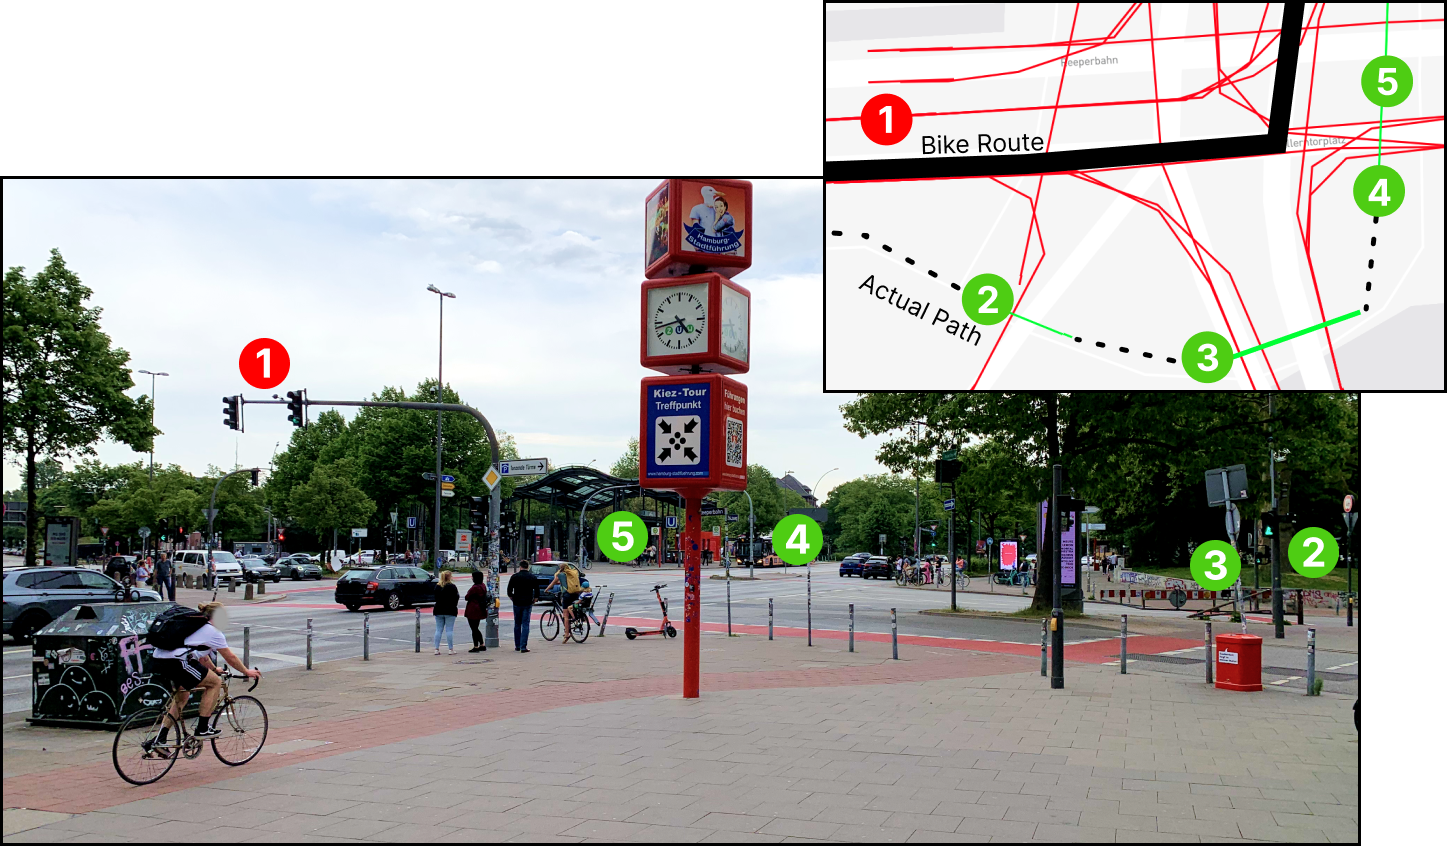
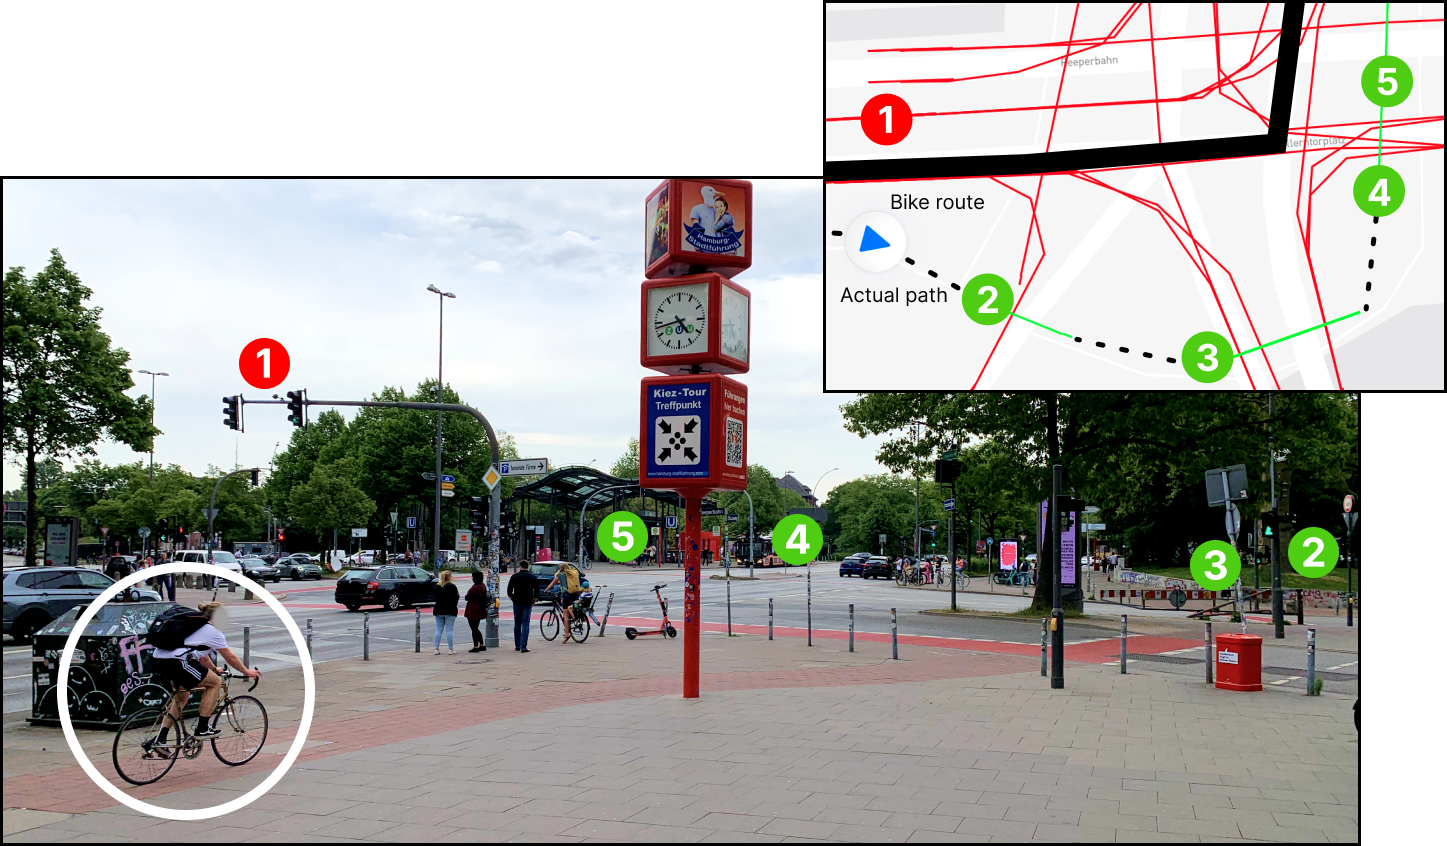
Update on Overleaf.

diff --git a/sections/prediction.tex b/sections/prediction.tex
@@ -390,7 +390,7 @@ The results must be viewed in correspondence to the measured green length, which
 
 Looking more at the revealed patterns may allow us to understand some specific constraints in traffic light behavior. First, as prescribed by German traffic light planning, a cutoff at 5 seconds of green length can be seen \cite{TN_libero_mab2}. When extracting and analyzing random examples from specific regions, we find that the horizontal concentrations at 90 seconds, 75 seconds, and 60 seconds primarily stem from traffic lights that switch green for the complete cycle. These buckets are occasionally shifted to the right by red phases of different lengths that interrupt the otherwise switched green phase. Top-left to bottom-right diagonal lines come from traffic lights that extend their green phase until a maximum green duration is reached. Since shorter green phases can be placed more flexibly in the cycle, a decreased green length leads to a higher cycle discrepancy. These constraints could be detected and used to improve the prediction.
 
-\begin{figure}[t]
+\begin{figure}[!t]
     \centering
     \includegraphics[width=\linewidth]{images/predictability-case-studies.pdf}
     \caption{Random examples of recorded traffic light histories from our database, ordered by their classification according to our two metrics. Below each cycle diagram, a probabilistic prediction based on the cycles is shown. Title format: median (cycle discrepancy, wait time diversity). Low values indicate high predictability.}\label{fig:types-of-instability}

diff --git a/sections/matching.tex b/sections/matching.tex
@@ -97,7 +97,7 @@ We aim to address the described research gap as follows. In this concept, we wil
 \begin{figure}[t]
 \centering
 \includegraphics[width=\linewidth]{images/sg-selection-example.png}
-\caption{In this case, the OpenStreetMap route does not accurately depict the cyclist's most optimal path and runs over car traffic light 1. In reality, the bike path and four bike/pedestrian traffic lights to the right of the route are utilized: 2, 3, 4, and 5. Source: \cite{matthes2023geo}}
+\caption{Photo of Millerntorplatz Hamburg: The cyclist depicted on the bottom left is currently driving toward traffic light 2 along the actual path marked in the map view. However, the closest traffic light to the OpenStreetMap bike route would be traffic light 1. This example depicts how spatial reasoning is required to determine the appropriate sequence of traffic lights, in this case, 2, 3, 4, and 5. Source: \cite{matthes2023geo}}
 \label{fig:sg-selection-example}
 \end{figure}
 
